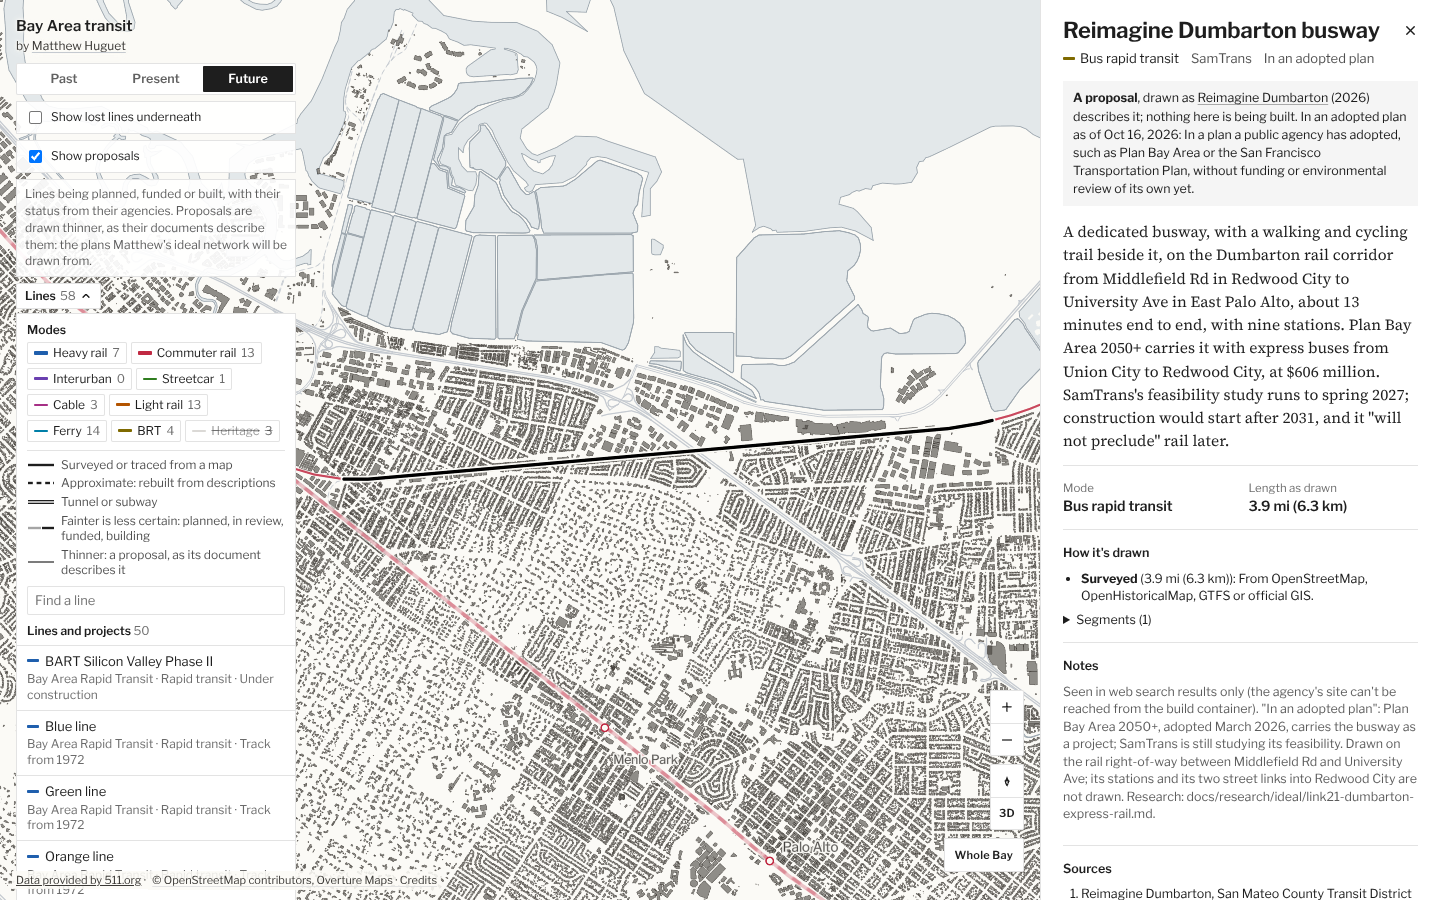
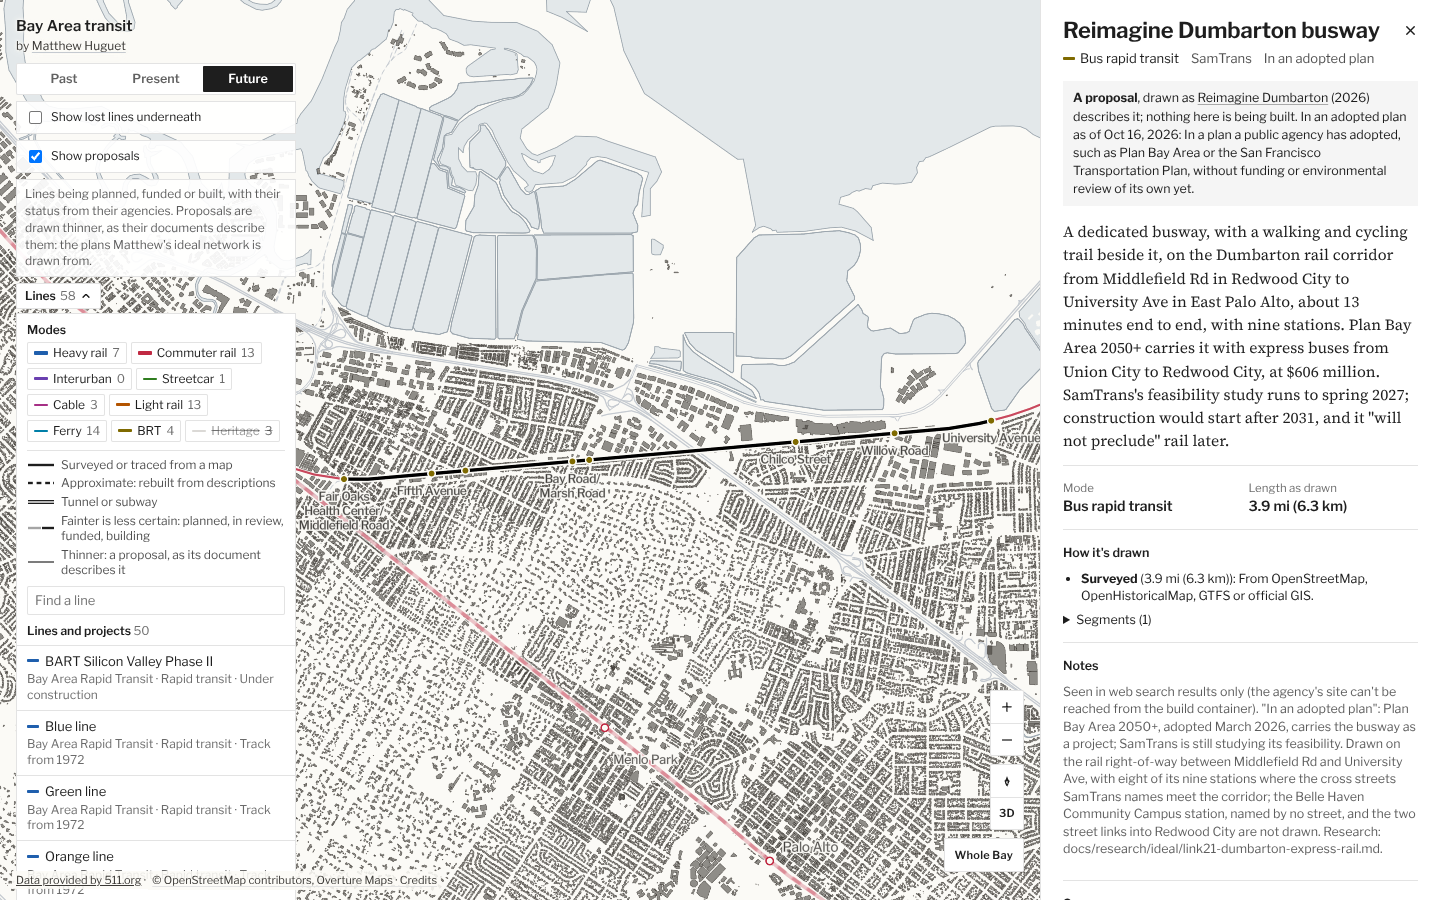
Proposal stations follow the proposal look; Checkpoint 4 screenshots of the three looks
Claude-Session: https://claude.ai/code/session_01ADq9U4WauKTMXoy375ZWi9

diff --git a/src/eras/layers.ts b/src/eras/layers.ts
@@ -140,6 +140,16 @@ function proposalColor(theme: Theme, style: ProposalStyle): ExpressionSpecificat
   return own;
 }
 
+/** The same for a proposal's stations, whose features carry their lines' status as `lstatus`. */
+function proposalStationColor(theme: Theme, style: ProposalStyle): ExpressionSpecification {
+  const p = theme.transit.proposals;
+  const own = byGroup(theme, (g) => modeColor(theme, g));
+  const proposed: ExpressionSpecification = ['==', ['get', 'lstatus'], 'proposed'];
+  if (style === 'tint') return ['case', proposed, byGroup(theme, (g) => over(modeColor(theme, g), 1 - p.tintMix, theme.colors.land)), own];
+  if (style === 'neutral') return ['case', proposed, p.neutral, own];
+  return own;
+}
+
 /** Under the `committed` style, uncommitted future lines are drawn thinner. */
 const statusWidth = (style: StatusStyle): number | ExpressionSpecification =>
   style === 'committed' ? ['case', ['in', ['get', 'status'], ['literal', UNCOMMITTED]], 0.6, 1] : 1;
@@ -314,6 +324,8 @@ export function transitLayers(theme: Theme, view: TransitView, fonts: { regular:
   for (const d of shownDatasets(view)) {
     const base = [...pastFilter(view), ...groupFilter(view), ...(d === 'ideal' ? idealFilter(view, 'lstatus') : [])];
     const isNew: ExpressionSpecification = ['==', ['get', 'status'], 'new'];
+    // A proposal's stations take the proposal look's color, so they read with its line.
+    const ring = d === 'ideal' ? proposalStationColor(theme, view.proposalStyle ?? 'translucent') : byGroup(theme, (g) => modeColor(theme, g));
     const waterside: FilterSpecification = ['in', ['get', 'kind'], ['literal', ['pier', 'mole', 'ferry_terminal']]];
     const works: FilterSpecification = ['in', ['get', 'kind'], ['literal', ['carbarn', 'shop', 'yard', 'depot']]];
     layers.push(
@@ -342,8 +354,8 @@ export function transitLayers(theme: Theme, view: TransitView, fonts: { regular:
         filter: all(...base),
         paint: {
           'circle-radius': ['interpolate', ['linear'], ['zoom'], 10, 2.2, 13, 3.6, 16, 5.5],
-          'circle-color': ['case', isNew, byGroup(theme, (g) => modeColor(theme, g)), c.land],
-          'circle-stroke-color': ['case', isNew, c.land, works, c.labels, byGroup(theme, (g) => modeColor(theme, g))],
+          'circle-color': ['case', isNew, ring, c.land],
+          'circle-stroke-color': ['case', isNew, c.land, works, c.labels, ring],
           'circle-stroke-width': ['interpolate', ['linear'], ['zoom'], 10, 1.1, 16, 2],
           'circle-opacity': view.era === 'past' ? VIS : 1,
           'circle-stroke-opacity': view.era === 'past' ? VIS : 1,
